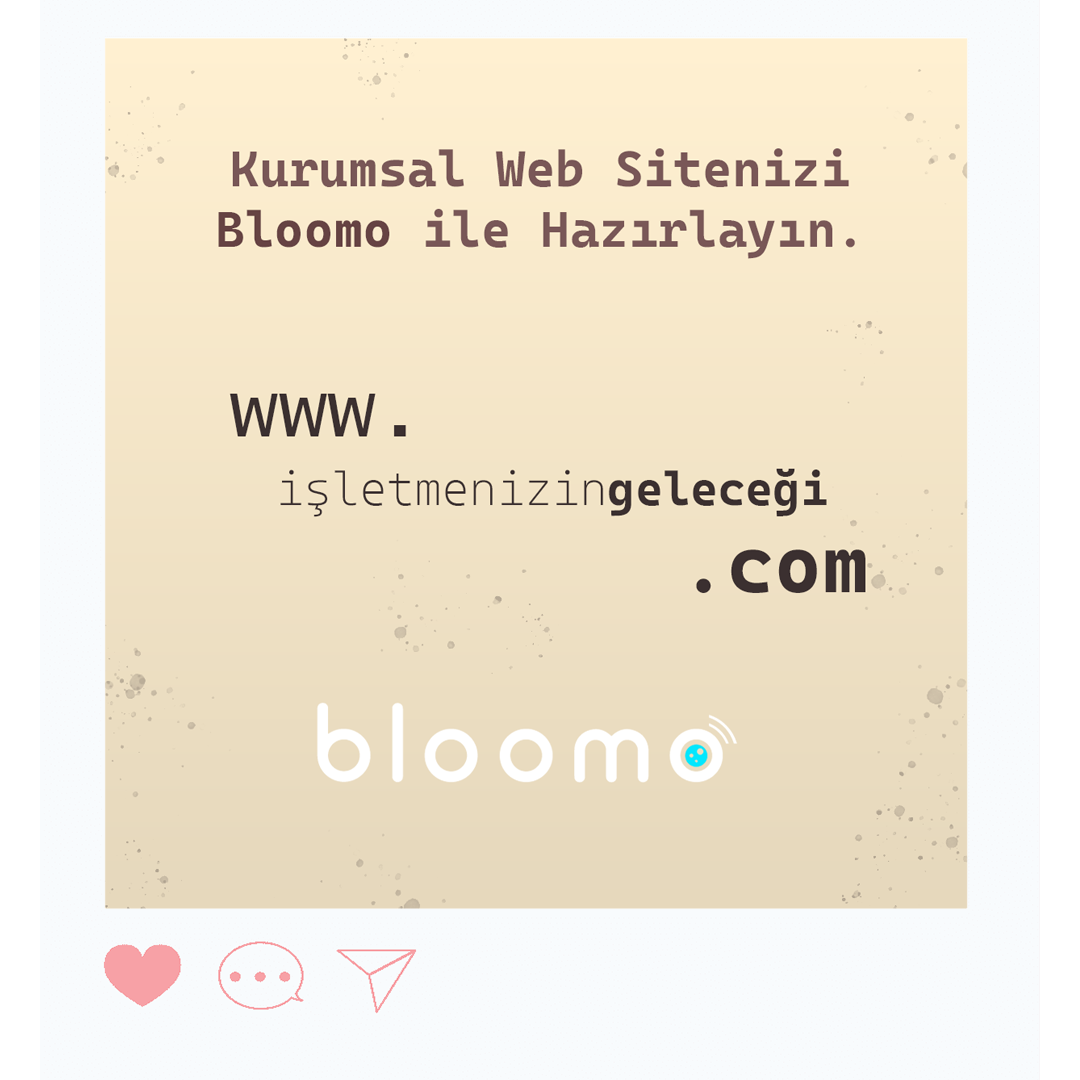
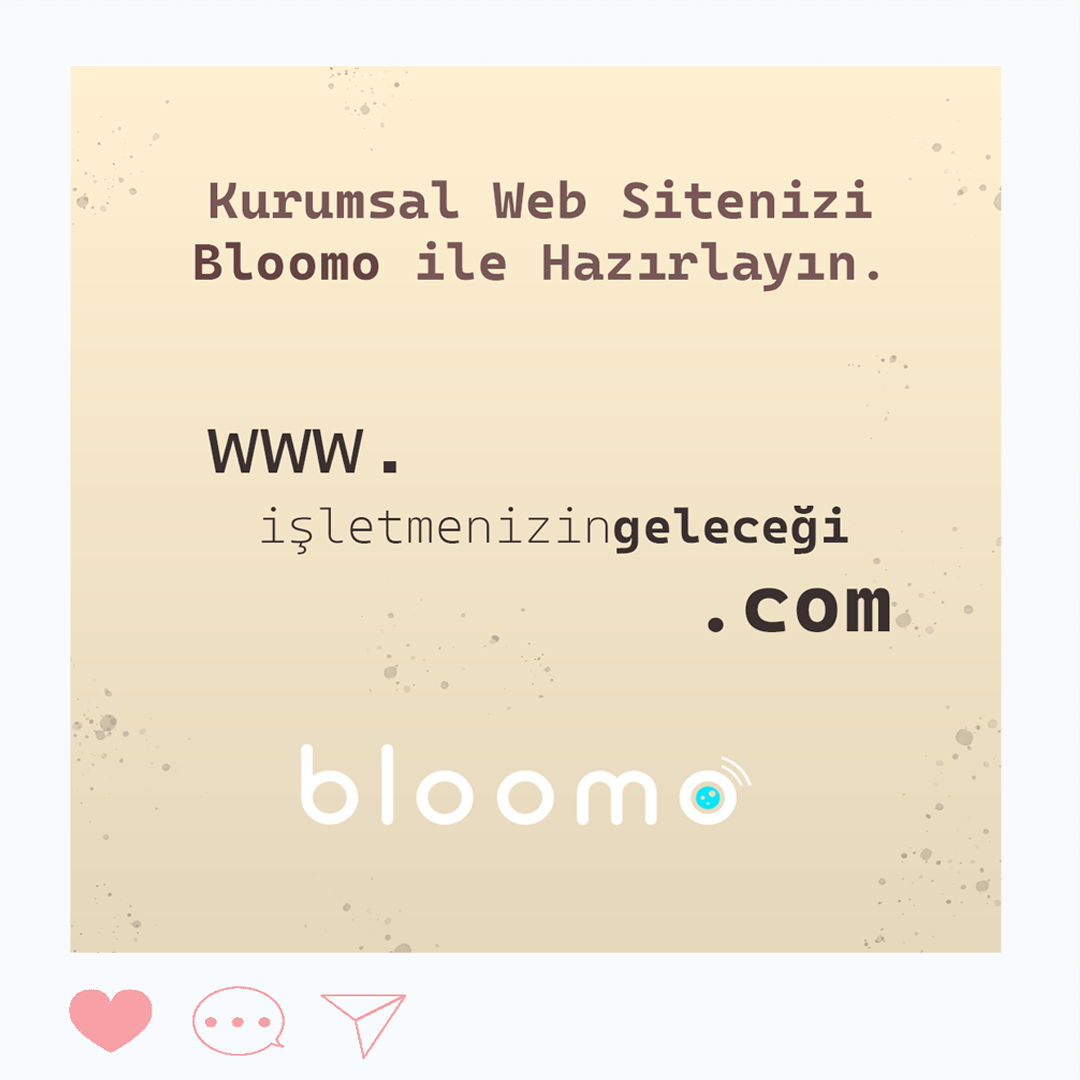
post

diff --git a/index.html b/index.html
@@ -208,7 +208,7 @@
                   <p>Photoshop Design, Social Media</p>
                 </div>
               </div>
-              <img src="images/img_7.jpg" class="lazyload  img-fluid" alt="Images" />
+              <img src="images/img_7.png" class="lazyload  img-fluid" alt="Images" />
             </a>
           </div>
 
